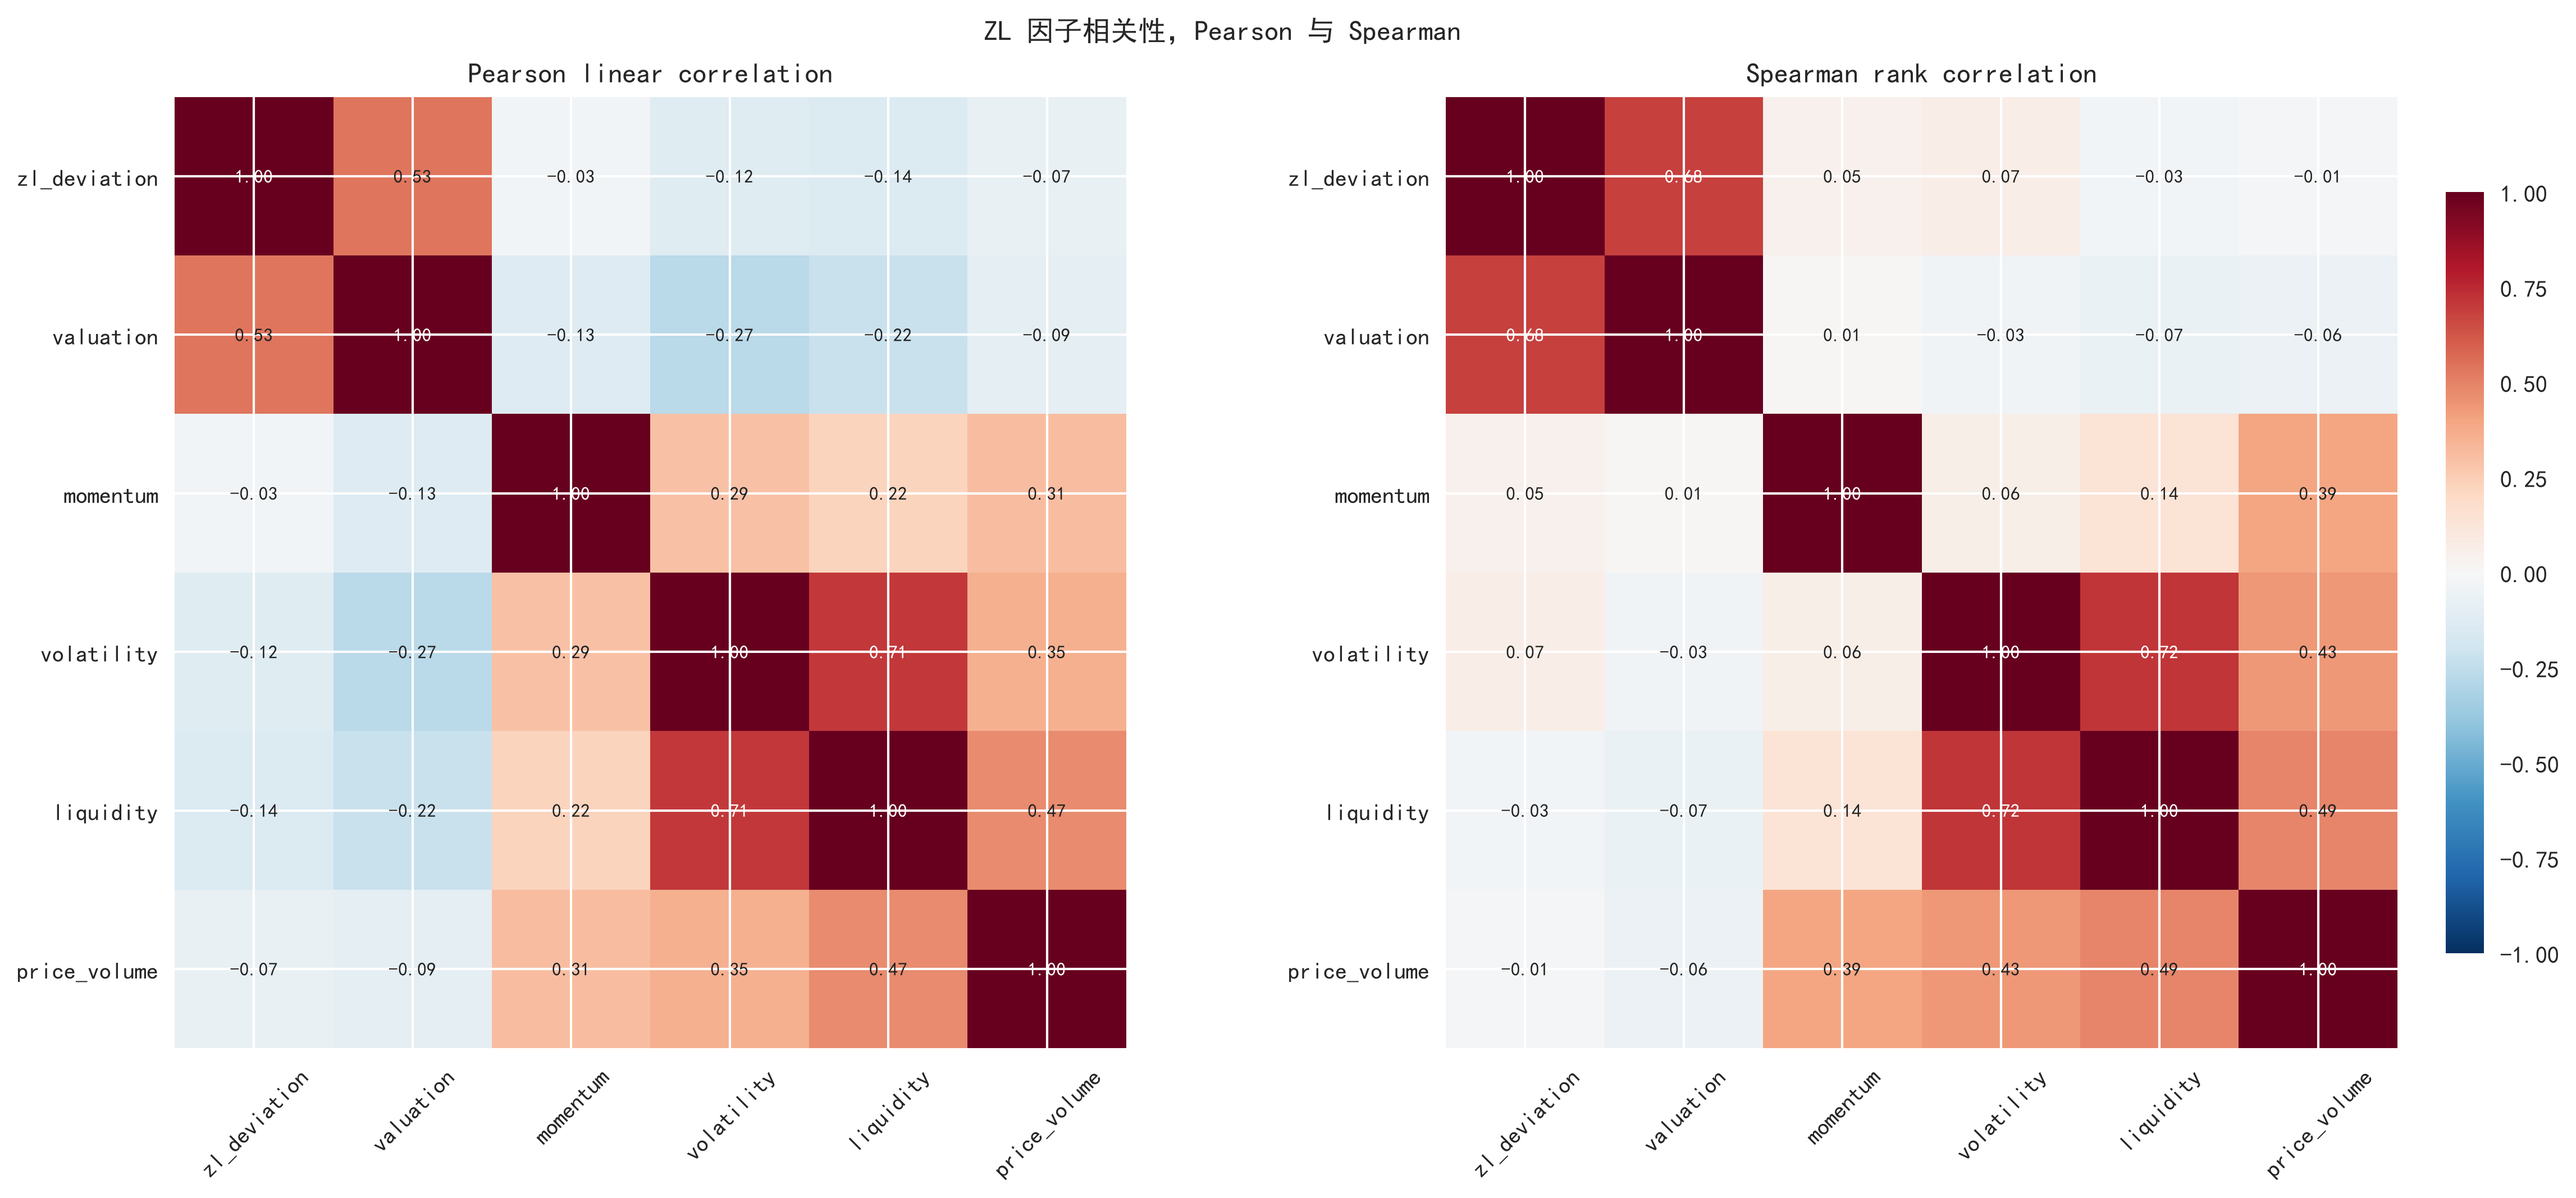
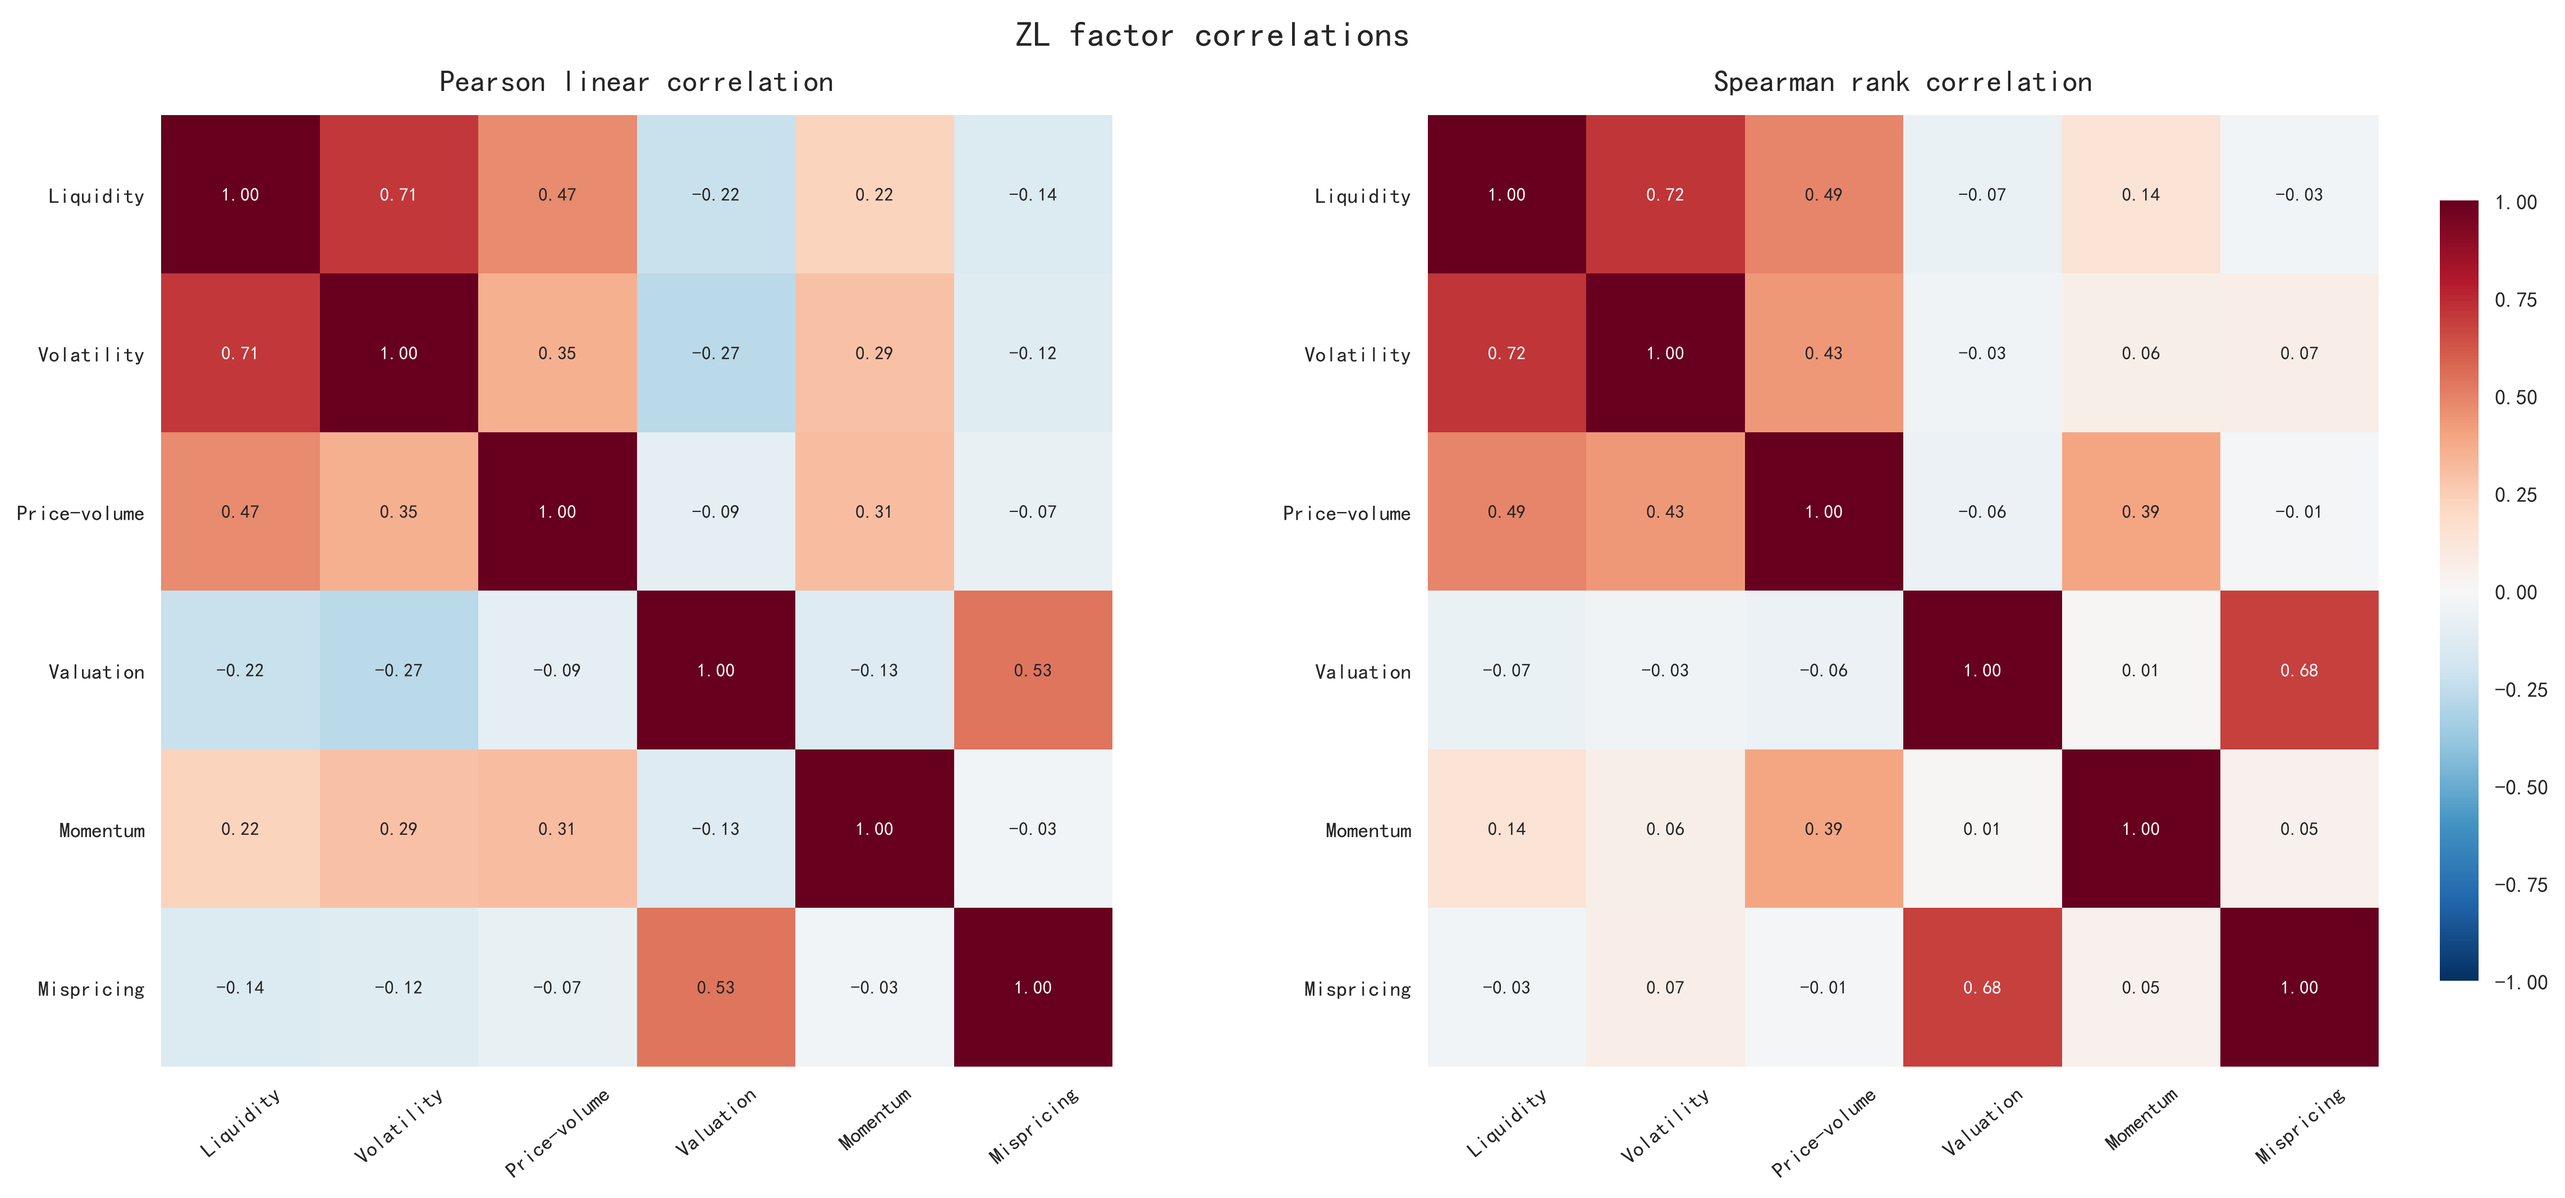
fix: unify factor correlation chart styling

diff --git a/backtest/regenerate_plots.py b/backtest/regenerate_plots.py
@@ -2,7 +2,7 @@
 regenerate_plots.py — 一键重生成 README 全部图表
 
 从现有模型输出 XLSX / CSV 读取数据，不重跑模型计算。
-生成 9 张 README 引用图片：
+生成 README 引用的模型、策略、相关性及 IC 图表：
   backtest/Fig1_BS_Price_Time_Series.png
   backtest/Fig1_ZL_Price_Time_Series.png
   backtest/Fig1_LSM_Price_Time_Series.png
@@ -44,6 +44,23 @@ ZL_XLSX = os.path.join(SCRIPT_DIR, "ZL_Model_Summary.xlsx")
 LSM_XLSX = os.path.join(SCRIPT_DIR, "LSM_Model_Summary.xlsx")
 LS_DIR = os.path.join(REPO_ROOT, "long-short strategy")
 MF_DIR = os.path.join(REPO_ROOT, "mispricing factor")
+FACTOR_CORRELATION_ORDER = (
+    "liquidity",
+    "volatility",
+    "price_volume",
+    "valuation",
+    "momentum",
+)
+FACTOR_CORRELATION_LABELS = {
+    "liquidity": "Liquidity",
+    "volatility": "Volatility",
+    "price_volume": "Price-volume",
+    "valuation": "Valuation",
+    "momentum": "Momentum",
+    "bs_deviation": "Mispricing",
+    "zl_deviation": "Mispricing",
+    "lsm_deviation": "Mispricing",
+}
 
 # XLSX sheet 名称（理论价格 / 市场价格 / 绝对偏差 / 相对偏差）
 SHEET_MODEL = "理论价格"
@@ -471,12 +488,24 @@ def _load_factor_csvs(factor_dir: str, xlsx_reldev: pd.DataFrame, model_label: s
     return merged
 
 
-def _plot_factor_corr(merged: pd.DataFrame, title: str, out_path: str) -> None:
+def _plot_factor_corr(
+    merged: pd.DataFrame,
+    model_label: str,
+    out_path: str,
+) -> None:
     if "valuation" in merged.columns:
         merged = merged.copy()
         merged["valuation"] = -merged["valuation"]
     pearson = merged.corr(method="pearson")
     spearman = merged.corr(method="spearman")
+    dev_key = f"{model_label.lower()}_deviation"
+    correlation_order = [
+        name
+        for name in (*FACTOR_CORRELATION_ORDER, dev_key)
+        if name in pearson.columns
+    ]
+    pearson = pearson.loc[correlation_order, correlation_order]
+    spearman = spearman.loc[correlation_order, correlation_order]
     stem, _ = os.path.splitext(out_path)
     pearson.to_csv(f"{stem}_pearson.csv", encoding="utf-8-sig")
     spearman.to_csv(f"{stem}_spearman.csv", encoding="utf-8-sig")
@@ -486,16 +515,30 @@ def _plot_factor_corr(merged: pd.DataFrame, title: str, out_path: str) -> None:
         2,
         figsize=(16, 7),
         constrained_layout=True,
+        facecolor="white",
     )
     image = None
     for ax, matrix, method in (
         (axes[0], pearson, "Pearson linear correlation"),
         (axes[1], spearman, "Spearman rank correlation"),
     ):
-        image = ax.imshow(matrix.to_numpy(), cmap="RdBu_r", vmin=-1, vmax=1)
-        ax.set_xticks(np.arange(len(matrix.columns)), matrix.columns)
-        ax.set_yticks(np.arange(len(matrix.index)), matrix.index)
-        ax.tick_params(axis="x", rotation=45)
+        display_labels = [
+            FACTOR_CORRELATION_LABELS.get(name, name)
+            for name in matrix.columns
+        ]
+        ax.set_facecolor("white")
+        ax.grid(False)
+        image = ax.imshow(
+            matrix.to_numpy(),
+            cmap="RdBu_r",
+            vmin=-1,
+            vmax=1,
+            interpolation="nearest",
+        )
+        ax.set_xticks(np.arange(len(display_labels)), display_labels)
+        ax.set_yticks(np.arange(len(display_labels)), display_labels)
+        ax.tick_params(axis="x", rotation=40, labelsize=9)
+        ax.tick_params(axis="y", labelsize=9)
         for row in range(len(matrix.index)):
             for column in range(len(matrix.columns)):
                 value = matrix.iloc[row, column]
@@ -508,9 +551,14 @@ def _plot_factor_corr(merged: pd.DataFrame, title: str, out_path: str) -> None:
                     color="white" if abs(value) >= 0.55 else "#222222",
                     fontsize=8,
                 )
-        ax.set_title(method)
-    fig.colorbar(image, ax=axes, shrink=0.8, pad=0.02)
-    fig.suptitle(title)
+        ax.set_title(method, fontsize=13, pad=10)
+    colorbar = fig.colorbar(image, ax=axes, shrink=0.82, pad=0.025)
+    colorbar.ax.tick_params(labelsize=9)
+    fig.suptitle(
+        f"{model_label} factor correlations",
+        fontsize=15,
+        fontweight="bold",
+    )
     _save(out_path)
 
 
@@ -523,7 +571,7 @@ def plot_factor_correlation() -> None:
         if merged_bs is not None:
             _plot_factor_corr(
                 merged_bs,
-                title="BS 因子相关性，Pearson 与 Spearman",
+                model_label="BS",
                 out_path=os.path.join(MF_DIR, "BS_factor_correlation.png"),
             )
 
@@ -533,7 +581,7 @@ def plot_factor_correlation() -> None:
         if merged_zl is not None:
             _plot_factor_corr(
                 merged_zl,
-                title="ZL 因子相关性，Pearson 与 Spearman",
+                model_label="ZL",
                 out_path=os.path.join(MF_DIR, "ZL_factor_correlation.png"),
             )
 
@@ -543,7 +591,7 @@ def plot_factor_correlation() -> None:
         if merged_lsm is not None:
             _plot_factor_corr(
                 merged_lsm,
-                title="LSM 因子相关性，Pearson 与 Spearman",
+                model_label="LSM",
                 out_path=os.path.join(MF_DIR, "LSM_factor_correlation.png"),
             )
 

diff --git a/mispricing factor/mispricing_factor_core.py b/mispricing factor/mispricing_factor_core.py
@@ -36,6 +36,23 @@ MIN_DAILY_TURNOVER_WAN = 500.0
 MIN_OUTSTANDING_BALANCE_WAN = 3_000.0
 MIN_IC_CROSS_SECTION = 10
 FACTOR_DIAGNOSTICS_VERSION = 1
+FACTOR_CORRELATION_ORDER = (
+    "liquidity",
+    "volatility",
+    "price_volume",
+    "valuation",
+    "momentum",
+)
+FACTOR_CORRELATION_LABELS = {
+    "liquidity": "Liquidity",
+    "volatility": "Volatility",
+    "price_volume": "Price-volume",
+    "valuation": "Valuation",
+    "momentum": "Momentum",
+    "bs_deviation": "Mispricing",
+    "zl_deviation": "Mispricing",
+    "lsm_deviation": "Mispricing",
+}
 sys.path.insert(0, str(BACKTEST_DIR))
 
 from market_data_contracts import (  # noqa: E402
@@ -263,6 +280,14 @@ class MultiFactorBacktest:
         pearson = merged_df.corr(method="pearson")
         spearman = merged_df.corr(method="spearman")
 
+        correlation_order = [
+            name
+            for name in (*FACTOR_CORRELATION_ORDER, self.dev_key)
+            if name in pearson.columns
+        ]
+        pearson = pearson.loc[correlation_order, correlation_order]
+        spearman = spearman.loc[correlation_order, correlation_order]
+
         print("  Pearson 因子相关性矩阵:")
         print(pearson)
         print("  Spearman 因子相关性矩阵:")
@@ -292,16 +317,30 @@ class MultiFactorBacktest:
             2,
             figsize=(16, 7),
             constrained_layout=True,
+            facecolor="white",
         )
         image = None
         for ax, matrix, title in (
             (axes[0], pearson, "Pearson linear correlation"),
             (axes[1], spearman, "Spearman rank correlation"),
         ):
-            image = ax.imshow(matrix.to_numpy(), cmap="RdBu_r", vmin=-1, vmax=1)
-            ax.set_xticks(np.arange(len(matrix.columns)), matrix.columns)
-            ax.set_yticks(np.arange(len(matrix.index)), matrix.index)
-            ax.tick_params(axis="x", rotation=45)
+            display_labels = [
+                FACTOR_CORRELATION_LABELS.get(name, name)
+                for name in matrix.columns
+            ]
+            ax.set_facecolor("white")
+            ax.grid(False)
+            image = ax.imshow(
+                matrix.to_numpy(),
+                cmap="RdBu_r",
+                vmin=-1,
+                vmax=1,
+                interpolation="nearest",
+            )
+            ax.set_xticks(np.arange(len(display_labels)), display_labels)
+            ax.set_yticks(np.arange(len(display_labels)), display_labels)
+            ax.tick_params(axis="x", rotation=40, labelsize=9)
+            ax.tick_params(axis="y", labelsize=9)
             for row in range(len(matrix.index)):
                 for column in range(len(matrix.columns)):
                     value = matrix.iloc[row, column]
@@ -314,15 +353,22 @@ class MultiFactorBacktest:
                         color="white" if abs(value) >= 0.55 else "#222222",
                         fontsize=8,
                     )
-            ax.set_title(title)
-        fig.colorbar(image, ax=axes, shrink=0.8, pad=0.02)
+            ax.set_title(title, fontsize=13, pad=10)
+        colorbar = fig.colorbar(image, ax=axes, shrink=0.82, pad=0.025)
+        colorbar.ax.tick_params(labelsize=9)
         fig.suptitle(
-            f"{self.model} factor correlation, common date-bond observations",
-            fontsize=14,
+            f"{self.model} factor correlations",
+            fontsize=15,
+            fontweight="bold",
         )
 
         save_path = self.data_dir / f"{self.model}_factor_correlation.png"
-        plt.savefig(save_path)
+        plt.savefig(
+            save_path,
+            dpi=300,
+            bbox_inches="tight",
+            facecolor="white",
+        )
         print(f"  相关性热力图已保存至: {save_path}")
         plt.close()
 

diff --git a/tests/test_mispricing_factor_returns.py b/tests/test_mispricing_factor_returns.py
@@ -143,6 +143,11 @@ def test_factor_correlation_exports_pearson_and_spearman(tmp_path) -> None:
     matrices = backtest.check_factor_correlation()
 
     assert set(matrices) == {"pearson", "spearman"}
+    assert matrices["pearson"].columns.tolist() == [
+        "liquidity",
+        "valuation",
+        "momentum",
+    ]
     assert (tmp_path / "BS_factor_correlation_pearson.csv").exists()
     assert (tmp_path / "BS_factor_correlation_spearman.csv").exists()
     assert (tmp_path / "BS_factor_correlation.png").exists()
